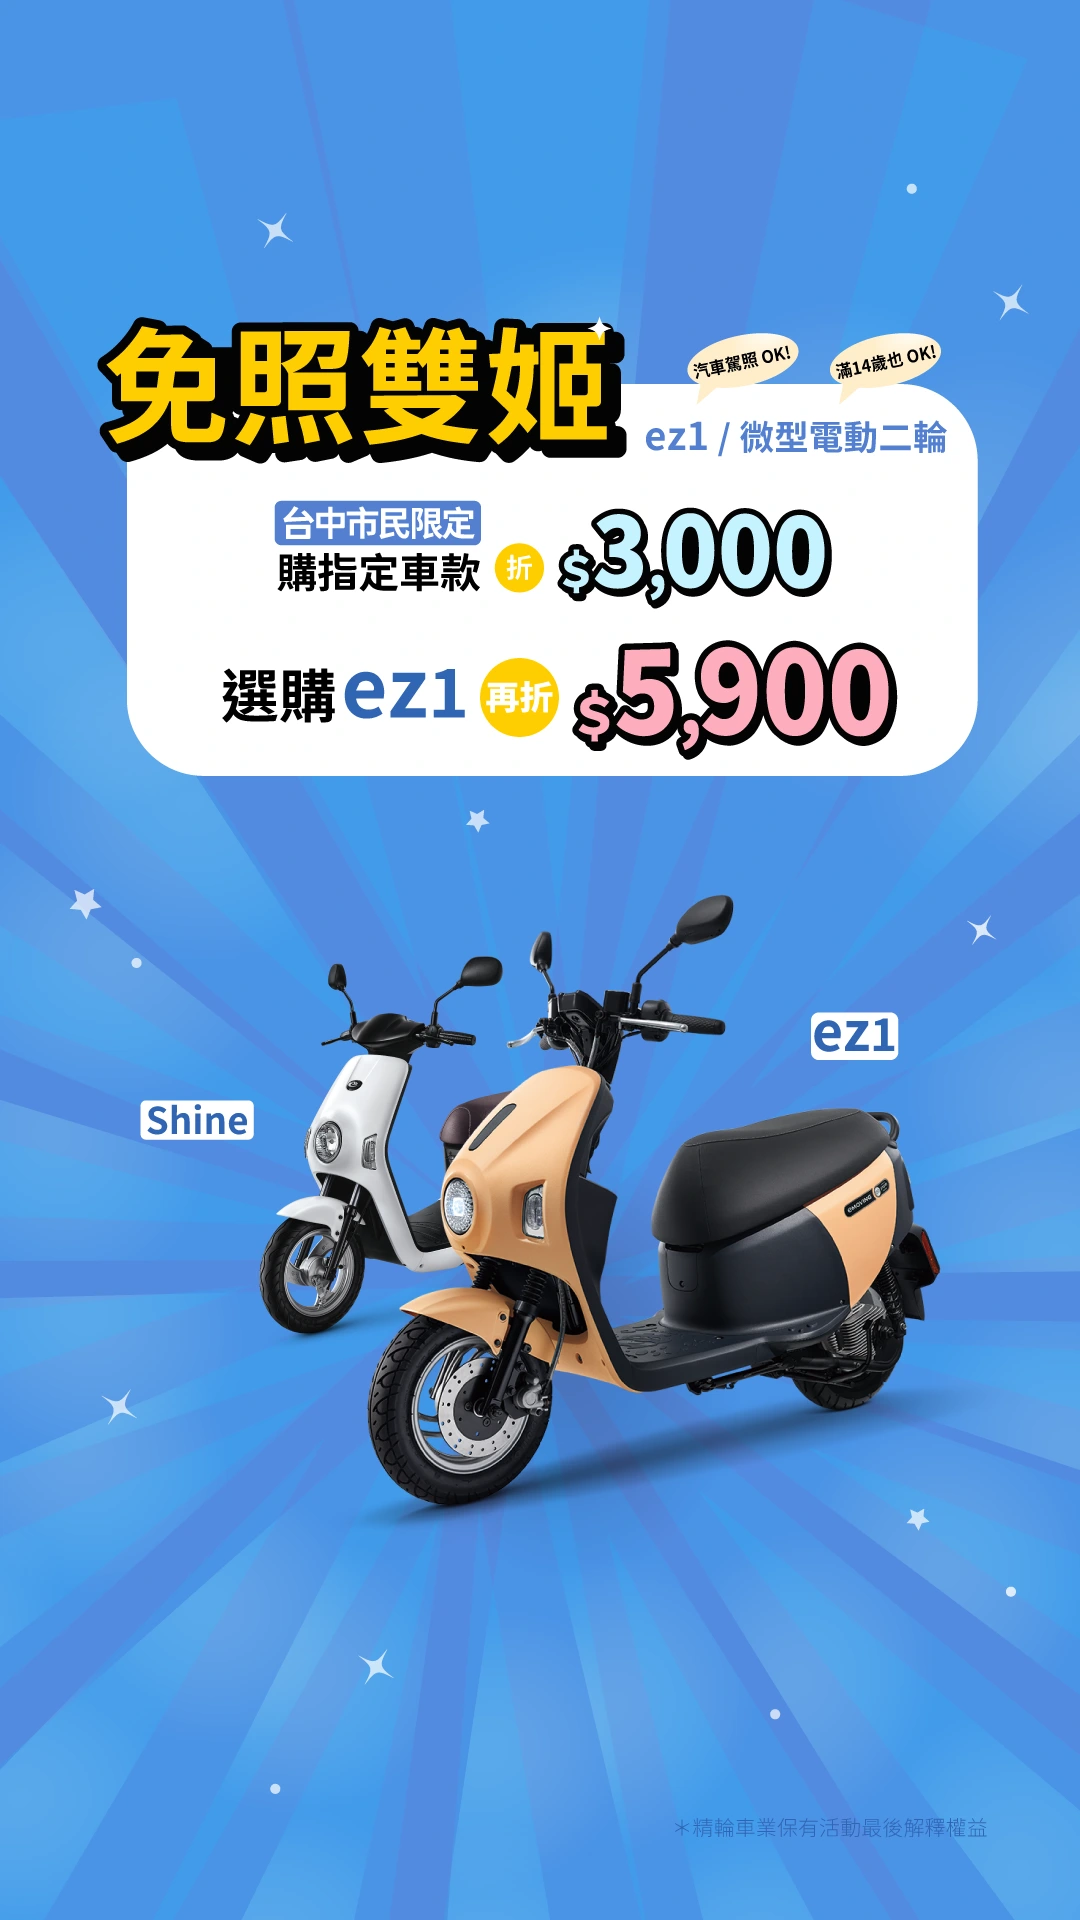
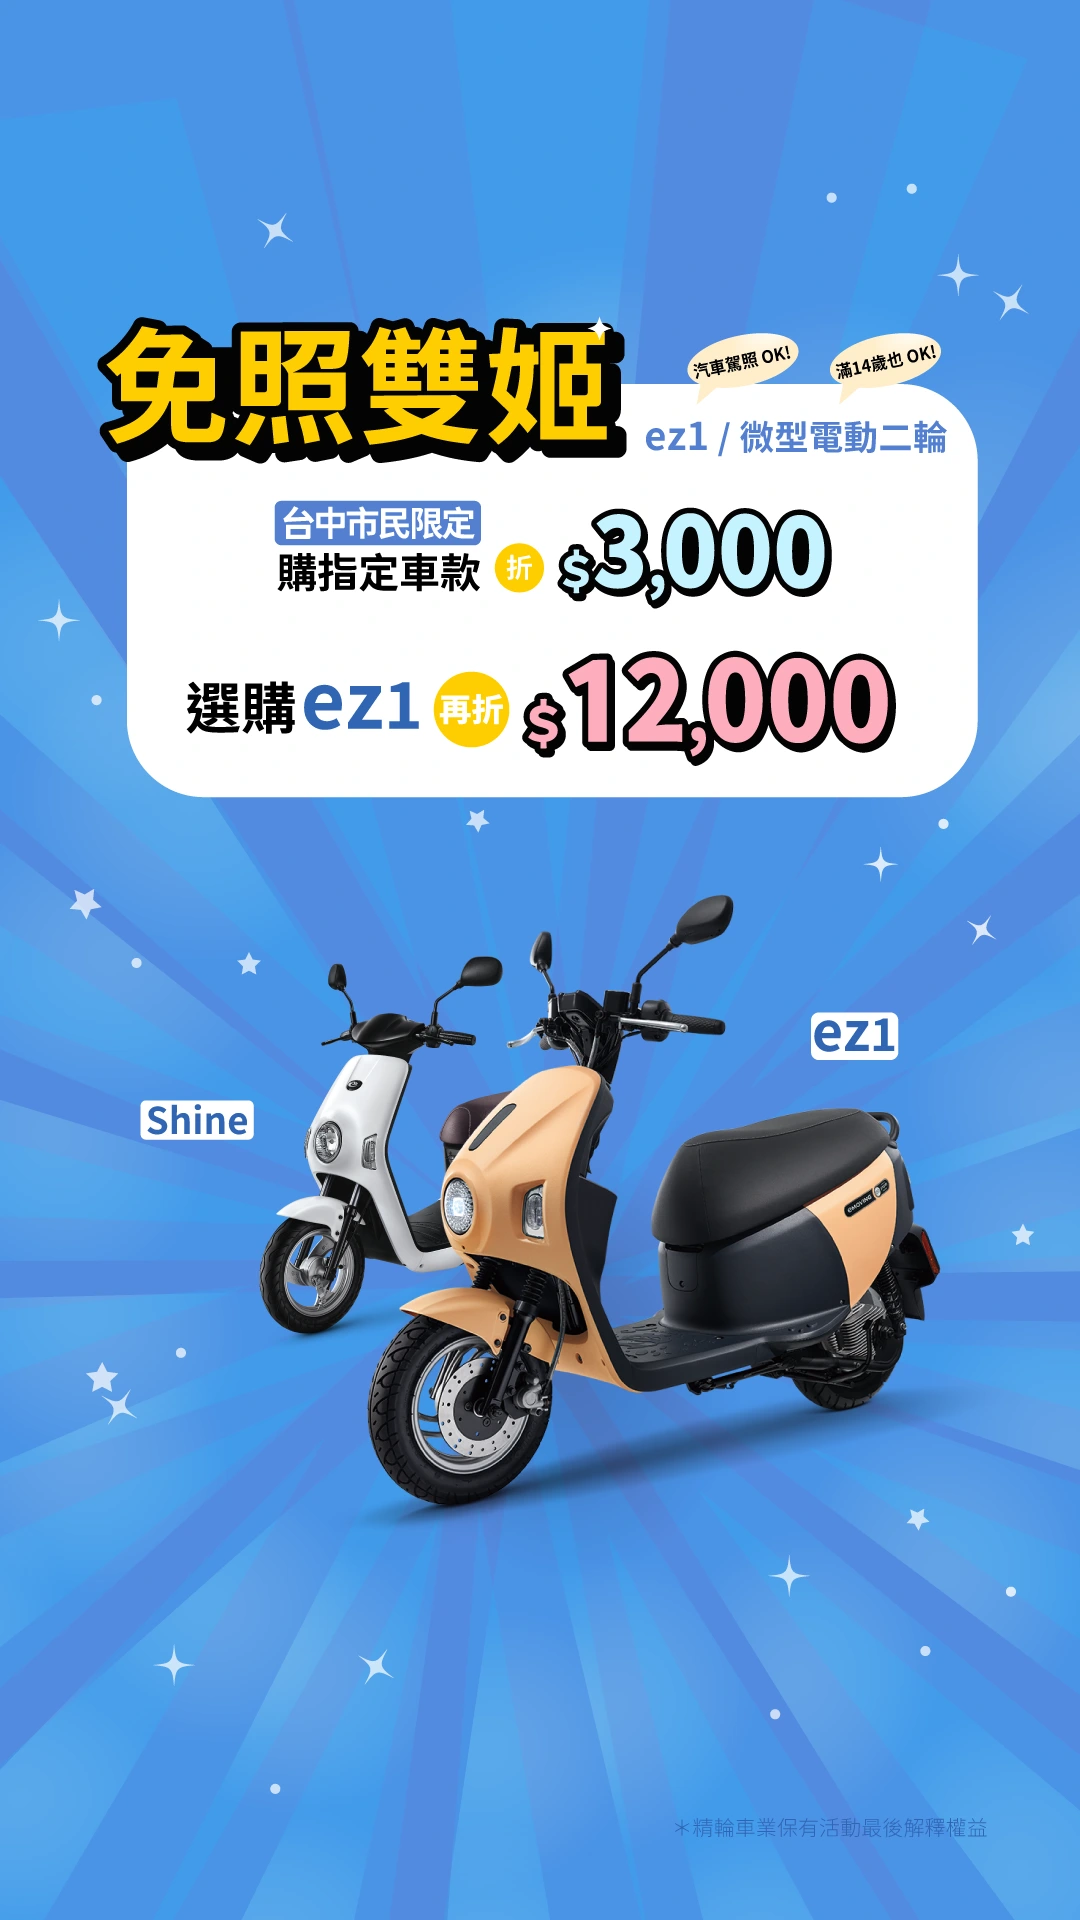
修改 廣宣內容

diff --git a/content/promotions/index.md b/content/promotions/index.md
@@ -19,8 +19,8 @@ models:
     description: "EZ1 採用 Gogoro Network 智慧換電系統，全台數千座電池交換站一換就走！超輕量化車身搭配軟Q舒適座墊，前置雙杯架與 USB 充電孔。"
     # 本月優惠亮點（重點數字突顯強調）
     highlights:
-      - '臺中市民限定，送 <span class="highlight-num">$3,000</span> 購車金'
-      - '加碼優惠：再折 <span class="highlight-num">$5,900</span> '
+      - '年終震撼價，現在購車 <span class="highlight-num">$15,000</span> 購車金'
+      - ' <span class="highlight-num">比微電還便宜！</span> '
       - '分期購車享 <span class="highlight-num">12</span> 期 <span class="highlight-num">0</span> 利率'
     car_page_link: "models/ez1/"
     line_link: "https://lihi1.me/8LpPy?ref=line_join"
